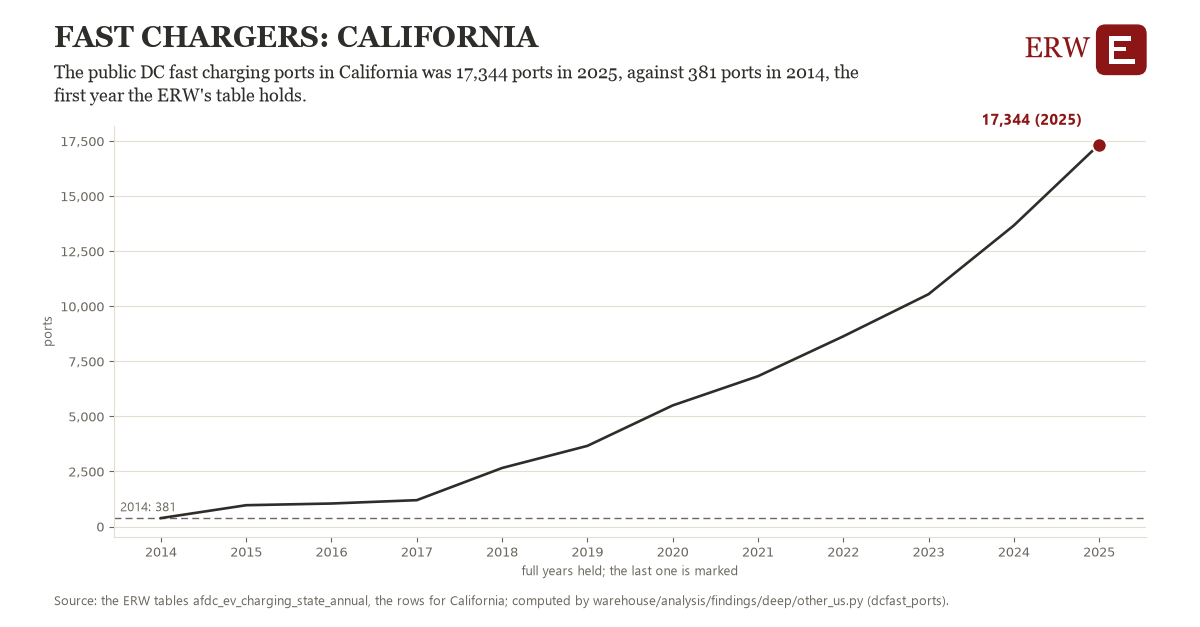
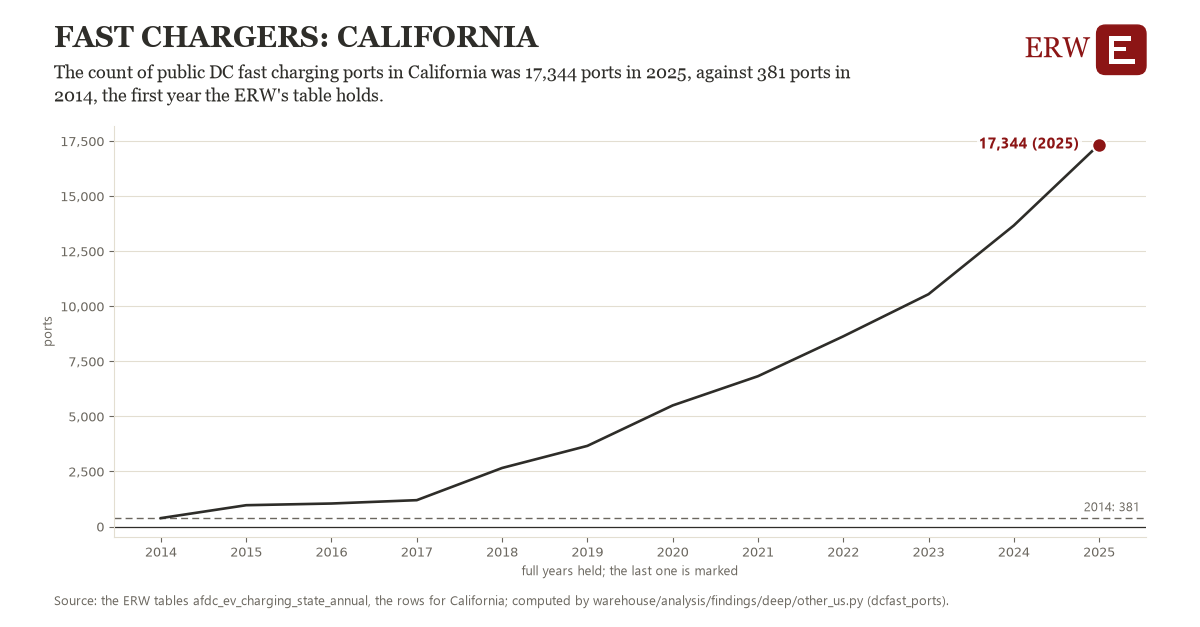
Session 9820: findings charts 31 to 40 drawn again; drafts stay drafts

Changed region(s): [[0.0308, 0.0909, 0.7092, 0.1818], [0.0925, 0.7879, 0.9558, 0.8485], [0.8017, 0.1818, 0.8942, 0.2424]]

diff --git a/docs/reviews/findings-charts-2026-11-20.md b/docs/reviews/findings-charts-2026-11-20.md
@@ -51,5 +51,15 @@ Energy Research Warehouse (ERW). Written by the desktop's fourth window, session
 | 28 | [oil_products_world/exp-product-xp-epjk](https://github.com/SamuelEnrique/erw/blob/main/docs/findings/oil_products_world/exp-product-xp-epjk.png) | 1 (sentence mended) | the line under the title still had the sentence's old words | drawn again: the mended sentence drawn in; the image's figure 216 is the draft's |
 | 29 | [oil_products_world/exp-product-xp-epllea](https://github.com/SamuelEnrique/erw/blob/main/docs/findings/oil_products_world/exp-product-xp-epllea.png) | 1 (sentence mended) | the line under the title still had the sentence's old words | drawn again: the mended sentence drawn in; the image's figure 577 is the draft's |
 | 30 | [oil_products_world/exp-product-xp-epllpa](https://github.com/SamuelEnrique/erw/blob/main/docs/findings/oil_products_world/exp-product-xp-epllpa.png) | 1 (sentence mended) | the line under the title still had the sentence's old words; the first year's label (2015: 615) sat on the line | drawn again: the mended sentence drawn in; label moved clear of the line; the image's figure 1,775 is the draft's |
+| 31 | [oil_products_world/exp-product-xp-epp0](https://github.com/SamuelEnrique/erw/blob/main/docs/findings/oil_products_world/exp-product-xp-epp0.png) | 1 (sentence mended) | the line under the title still had the sentence's old words; the first year's label (2015: 4,273) sat on the line | drawn again: the mended sentence drawn in; label moved clear of the line; the image's figure 6,823 is the draft's |
+| 32 | [oil_products_world/exp-product-xp-eppr](https://github.com/SamuelEnrique/erw/blob/main/docs/findings/oil_products_world/exp-product-xp-eppr.png) | 1 (sentence mended) | the line under the title still had the sentence's old words; the marked figure (113 (2025)) sat on the line | drawn again: the mended sentence drawn in; label moved clear of the line; the image's figure 113 is the draft's |
+| 33 | [oil_products_world/net-imports-us-net-imports](https://github.com/SamuelEnrique/erw/blob/main/docs/findings/oil_products_world/net-imports-us-net-imports.png) | 1 (sentence mended) | the line under the title still had the sentence's old words; the marked figure (-2,850 (2025)) sat on the line; no ink zero line (docs/brand.md, section 6), though zero is on the scale; the marked year 2025 had no label on the axis | drawn again: the mended sentence drawn in; label moved clear of the line; ink zero line drawn; axis labels counted back from the marked year; the image's figure -2,850 is the draft's |
+| 34 | [other_us/dcfast-ports-dcfast-ca](https://github.com/SamuelEnrique/erw/blob/main/docs/findings/other_us/dcfast-ports-dcfast-ca.png) | 1 (sentence mended) | the line under the title still had the sentence's old words; no ink zero line (docs/brand.md, section 6), though zero is on the scale | drawn again: the mended sentence drawn in; ink zero line drawn; the image's figure 17,344 is the draft's |
+| 35 | [other_us/dcfast-ports-dcfast-us](https://github.com/SamuelEnrique/erw/blob/main/docs/findings/other_us/dcfast-ports-dcfast-us.png) | 1 (sentence mended) | the line under the title still had the sentence's old words; no ink zero line (docs/brand.md, section 6), though zero is on the scale | drawn again: the mended sentence drawn in; ink zero line drawn; the image's figure 68,599 is the draft's |
+| 36 | [other_us/util-commercial-u861-14063-ok](https://github.com/SamuelEnrique/erw/blob/main/docs/findings/other_us/util-commercial-u861-14063-ok.png) | 1 (sentence mended) | the line under the title still had the sentence's old words | drawn again: the mended sentence drawn in; the image's figure 14.62 is the draft's |
+| 37 | [other_us/util-commercial-u861-14127-ne](https://github.com/SamuelEnrique/erw/blob/main/docs/findings/other_us/util-commercial-u861-14127-ne.png) | 1 (sentence mended), sheet 7 | the line under the title still had the sentence's old words | drawn again: the mended sentence drawn in; the image's figure 7.88 is the draft's |
+| 38 | [other_us/util-commercial-u861-16572-az](https://github.com/SamuelEnrique/erw/blob/main/docs/findings/other_us/util-commercial-u861-16572-az.png) | 1 (sentence mended) | the line under the title still had the sentence's old words | drawn again: the mended sentence drawn in; the image's figure 14.70 is the draft's |
+| 39 | [other_us/util-commercial-u861-19876-va](https://github.com/SamuelEnrique/erw/blob/main/docs/findings/other_us/util-commercial-u861-19876-va.png) | 1 (sentence mended), sheet 2 | the line under the title still had the sentence's old words; the first year's label (2017: 41.54) sat on the line | drawn again: the mended sentence drawn in; label moved clear of the line; the image's figure 60.09 is the draft's |
+| 40 | [other_us/util-commercial-u861-6452-fl](https://github.com/SamuelEnrique/erw/blob/main/docs/findings/other_us/util-commercial-u861-6452-fl.png) | 1 (sentence mended) | the line under the title still had the sentence's old words | drawn again: the mended sentence drawn in; the image's figure 54.17 is the draft's |
 
-30 charts so far.
+40 charts so far.
